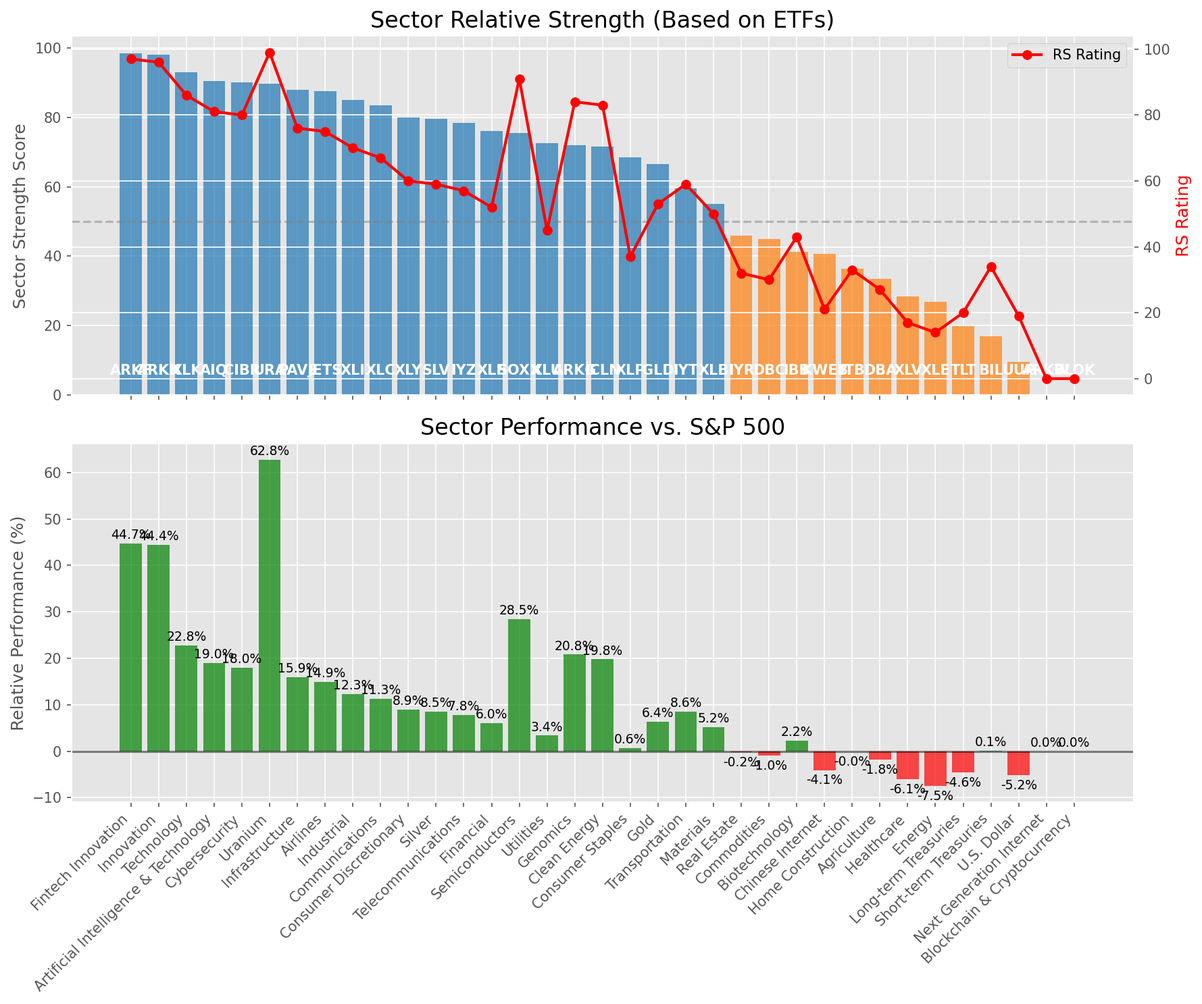
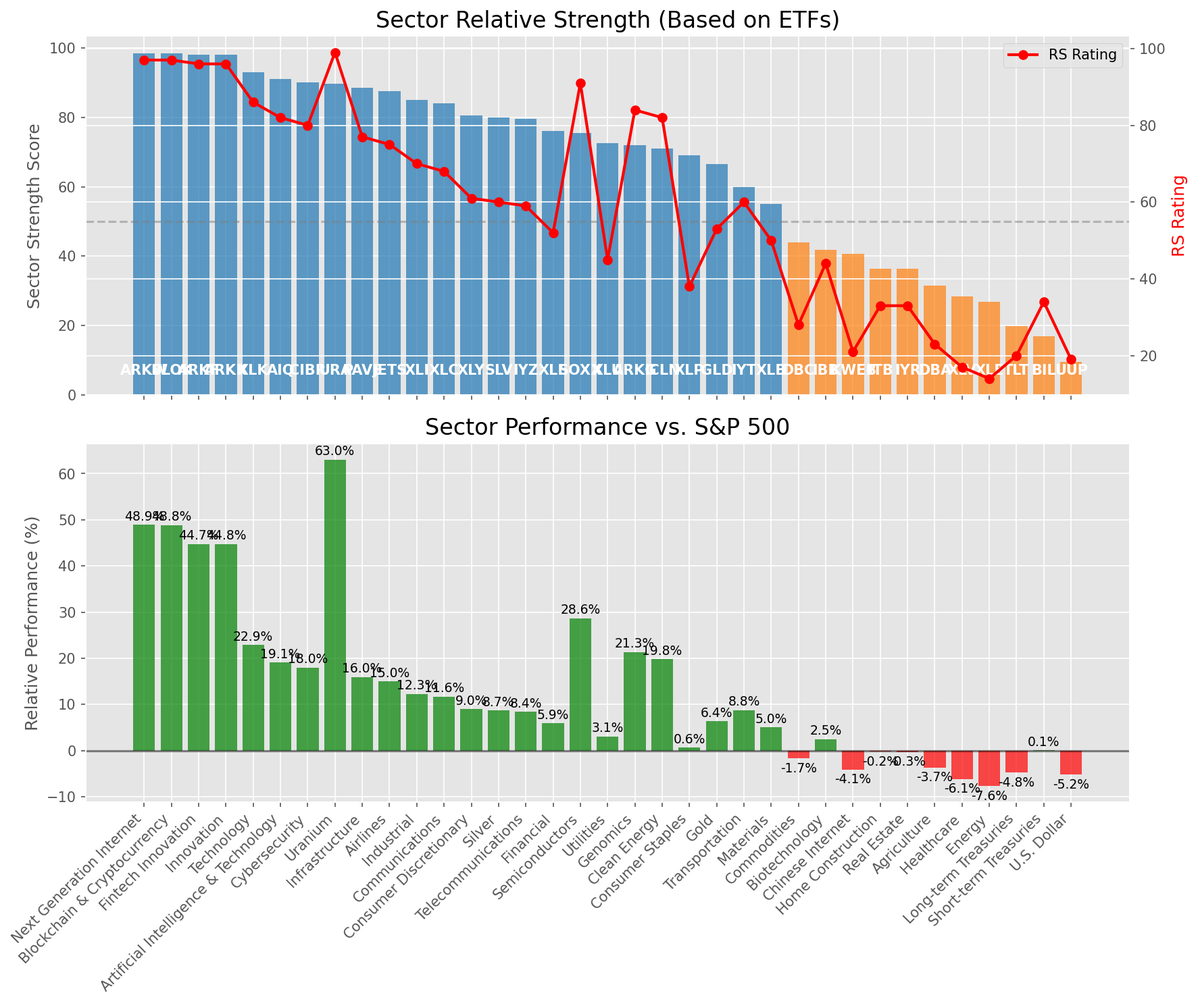
Add market report for 2025-07-03

diff --git a/oneil_relative_strength_report_2025-07-03.md b/oneil_relative_strength_report_2025-07-03.md
@@ -13,7 +13,7 @@
 | **Historical Mean** | 9.38 |
 | **Standard Deviation** | 0.48 |
 | **Z-Score (StdDev from Mean)** | 1.70 |
-| **Total Market Cap** | $308.03 trillion |
+| **Total Market Cap** | $308.14 trillion |
 | **GDP** | $29.96 trillion |
 
 ## **Market Insights**
@@ -49,41 +49,41 @@ Based on William O'Neil's Relative Strength Methodology
 
 | ETF | Strength | RS Rating | Performance | Above Key MAs | Trend | Sector |
 |-----|----------|-----------|-------------|--------------|-------|--------|
-| [ARKF](https://www.tradingview.com/chart/?symbol=ARKF) | 98.5 | 97.0 | 44.73% | 10d ✓, 50d ✓, 200d ✓ | ↗ | Fintech Innovation |
-| [ARKK](https://www.tradingview.com/chart/?symbol=ARKK) | 98.0 | 96.0 | 44.45% | 10d ✓, 50d ✓, 200d ✓ | ↗ | Innovation |
-| [XLK](https://www.tradingview.com/chart/?symbol=XLK) | 93.0 | 86.0 | 22.77% | 10d ✓, 50d ✓, 200d ✓ | ↗ | Technology |
-| [AIQ](https://www.tradingview.com/chart/?symbol=AIQ) | 90.5 | 81.0 | 18.95% | 10d ✓, 50d ✓, 200d ✓ | ↗ | Artificial Intelligence & Technology |
-| [CIBR](https://www.tradingview.com/chart/?symbol=CIBR) | 90.0 | 80.0 | 17.95% | 10d ✓, 50d ✓, 200d ✓ | ↗ | Cybersecurity |
-| [URA](https://www.tradingview.com/chart/?symbol=URA) | 89.6 | 99.0 | 62.75% | 10d ✗, 50d ✓, 200d ✓ | ↗ | Uranium |
-| [PAVE](https://www.tradingview.com/chart/?symbol=PAVE) | 88.0 | 76.0 | 15.95% | 10d ✓, 50d ✓, 200d ✓ | ↗ | Infrastructure |
-| [JETS](https://www.tradingview.com/chart/?symbol=JETS) | 87.5 | 75.0 | 14.95% | 10d ✓, 50d ✓, 200d ✓ | ↗ | Airlines |
-| [XLI](https://www.tradingview.com/chart/?symbol=XLI) | 85.0 | 70.0 | 12.29% | 10d ✓, 50d ✓, 200d ✓ | ↗ | Industrial |
-| [XLC](https://www.tradingview.com/chart/?symbol=XLC) | 83.5 | 67.0 | 11.30% | 10d ✓, 50d ✓, 200d ✓ | ↗ | Communications |
-| [XLY](https://www.tradingview.com/chart/?symbol=XLY) | 80.0 | 60.0 | 8.92% | 10d ✓, 50d ✓, 200d ✓ | ↗ | Consumer Discretionary |
-| [SLV](https://www.tradingview.com/chart/?symbol=SLV) | 79.5 | 59.0 | 8.47% | 10d ✓, 50d ✓, 200d ✓ | ↗ | Silver |
-| [IYZ](https://www.tradingview.com/chart/?symbol=IYZ) | 78.5 | 57.0 | 7.84% | 10d ✓, 50d ✓, 200d ✓ | ↗ | Telecommunications |
-| [XLF](https://www.tradingview.com/chart/?symbol=XLF) | 76.0 | 52.0 | 6.02% | 10d ✓, 50d ✓, 200d ✓ | ↗ | Financial |
-| [SOXX](https://www.tradingview.com/chart/?symbol=SOXX) | 75.5 | 91.0 | 28.46% | 10d ✓, 50d ✓, 200d ✓ | ↘ | Semiconductors |
-| [XLU](https://www.tradingview.com/chart/?symbol=XLU) | 72.5 | 45.0 | 3.36% | 10d ✓, 50d ✓, 200d ✓ | ↗ | Utilities |
-| [ARKG](https://www.tradingview.com/chart/?symbol=ARKG) | 72.0 | 84.0 | 20.80% | 10d ✓, 50d ✓, 200d ✓ | ↘ | Genomics |
-| [ICLN](https://www.tradingview.com/chart/?symbol=ICLN) | 71.5 | 83.0 | 19.78% | 10d ✓, 50d ✓, 200d ✓ | ↘ | Clean Energy |
-| [XLP](https://www.tradingview.com/chart/?symbol=XLP) | 68.5 | 37.0 | 0.64% | 10d ✓, 50d ✓, 200d ✓ | ↗ | Consumer Staples |
-| [GLD](https://www.tradingview.com/chart/?symbol=GLD) | 66.6 | 53.0 | 6.39% | 10d ✗, 50d ✓, 200d ✓ | ↗ | Gold |
-| [IYT](https://www.tradingview.com/chart/?symbol=IYT) | 59.5 | 59.0 | 8.56% | 10d ✓, 50d ✓, 200d ✓ | ↘ | Transportation |
-| [XLB](https://www.tradingview.com/chart/?symbol=XLB) | 55.0 | 50.0 | 5.20% | 10d ✓, 50d ✓, 200d ✓ | ↘ | Materials |
-| [IYR](https://www.tradingview.com/chart/?symbol=IYR) | 46.0 | 32.0 | -0.25% | 10d ✓, 50d ✓, 200d ✓ | ↘ | Real Estate |
-| [DBC](https://www.tradingview.com/chart/?symbol=DBC) | 45.0 | 30.0 | -0.98% | 10d ✓, 50d ✓, 200d ✓ | ↘ | Commodities |
-| [IBB](https://www.tradingview.com/chart/?symbol=IBB) | 41.3 | 43.0 | 2.25% | 10d ✓, 50d ✓, 200d ✗ | ↘ | Biotechnology |
+| [ARKW](https://www.tradingview.com/chart/?symbol=ARKW) | 98.5 | 97.0 | 48.88% | 10d ✓, 50d ✓, 200d ✓ | ↗ | Next Generation Internet |
+| [BLOK](https://www.tradingview.com/chart/?symbol=BLOK) | 98.5 | 97.0 | 48.84% | 10d ✓, 50d ✓, 200d ✓ | ↗ | Blockchain & Cryptocurrency |
+| [ARKF](https://www.tradingview.com/chart/?symbol=ARKF) | 98.0 | 96.0 | 44.72% | 10d ✓, 50d ✓, 200d ✓ | ↗ | Fintech Innovation |
+| [ARKK](https://www.tradingview.com/chart/?symbol=ARKK) | 98.0 | 96.0 | 44.77% | 10d ✓, 50d ✓, 200d ✓ | ↗ | Innovation |
+| [XLK](https://www.tradingview.com/chart/?symbol=XLK) | 93.0 | 86.0 | 22.85% | 10d ✓, 50d ✓, 200d ✓ | ↗ | Technology |
+| [AIQ](https://www.tradingview.com/chart/?symbol=AIQ) | 91.0 | 82.0 | 19.07% | 10d ✓, 50d ✓, 200d ✓ | ↗ | Artificial Intelligence & Technology |
+| [CIBR](https://www.tradingview.com/chart/?symbol=CIBR) | 90.0 | 80.0 | 17.96% | 10d ✓, 50d ✓, 200d ✓ | ↗ | Cybersecurity |
+| [URA](https://www.tradingview.com/chart/?symbol=URA) | 89.6 | 99.0 | 63.01% | 10d ✗, 50d ✓, 200d ✓ | ↗ | Uranium |
+| [PAVE](https://www.tradingview.com/chart/?symbol=PAVE) | 88.5 | 77.0 | 15.96% | 10d ✓, 50d ✓, 200d ✓ | ↗ | Infrastructure |
+| [JETS](https://www.tradingview.com/chart/?symbol=JETS) | 87.5 | 75.0 | 14.97% | 10d ✓, 50d ✓, 200d ✓ | ↗ | Airlines |
+| [XLI](https://www.tradingview.com/chart/?symbol=XLI) | 85.0 | 70.0 | 12.25% | 10d ✓, 50d ✓, 200d ✓ | ↗ | Industrial |
+| [XLC](https://www.tradingview.com/chart/?symbol=XLC) | 84.0 | 68.0 | 11.64% | 10d ✓, 50d ✓, 200d ✓ | ↗ | Communications |
+| [XLY](https://www.tradingview.com/chart/?symbol=XLY) | 80.5 | 61.0 | 8.97% | 10d ✓, 50d ✓, 200d ✓ | ↗ | Consumer Discretionary |
+| [SLV](https://www.tradingview.com/chart/?symbol=SLV) | 80.0 | 60.0 | 8.66% | 10d ✓, 50d ✓, 200d ✓ | ↗ | Silver |
+| [IYZ](https://www.tradingview.com/chart/?symbol=IYZ) | 79.5 | 59.0 | 8.37% | 10d ✓, 50d ✓, 200d ✓ | ↗ | Telecommunications |
+| [XLF](https://www.tradingview.com/chart/?symbol=XLF) | 76.0 | 52.0 | 5.90% | 10d ✓, 50d ✓, 200d ✓ | ↗ | Financial |
+| [SOXX](https://www.tradingview.com/chart/?symbol=SOXX) | 75.5 | 91.0 | 28.59% | 10d ✓, 50d ✓, 200d ✓ | ↘ | Semiconductors |
+| [XLU](https://www.tradingview.com/chart/?symbol=XLU) | 72.5 | 45.0 | 3.08% | 10d ✓, 50d ✓, 200d ✓ | ↗ | Utilities |
+| [ARKG](https://www.tradingview.com/chart/?symbol=ARKG) | 72.0 | 84.0 | 21.30% | 10d ✓, 50d ✓, 200d ✓ | ↘ | Genomics |
+| [ICLN](https://www.tradingview.com/chart/?symbol=ICLN) | 71.0 | 82.0 | 19.78% | 10d ✓, 50d ✓, 200d ✓ | ↘ | Clean Energy |
+| [XLP](https://www.tradingview.com/chart/?symbol=XLP) | 69.0 | 38.0 | 0.62% | 10d ✓, 50d ✓, 200d ✓ | ↗ | Consumer Staples |
+| [GLD](https://www.tradingview.com/chart/?symbol=GLD) | 66.6 | 53.0 | 6.35% | 10d ✗, 50d ✓, 200d ✓ | ↗ | Gold |
+| [IYT](https://www.tradingview.com/chart/?symbol=IYT) | 60.0 | 60.0 | 8.77% | 10d ✓, 50d ✓, 200d ✓ | ↘ | Transportation |
+| [XLB](https://www.tradingview.com/chart/?symbol=XLB) | 55.0 | 50.0 | 5.02% | 10d ✓, 50d ✓, 200d ✓ | ↘ | Materials |
+| [DBC](https://www.tradingview.com/chart/?symbol=DBC) | 44.0 | 28.0 | -1.71% | 10d ✓, 50d ✓, 200d ✓ | ↘ | Commodities |
+| [IBB](https://www.tradingview.com/chart/?symbol=IBB) | 41.8 | 44.0 | 2.47% | 10d ✓, 50d ✓, 200d ✗ | ↘ | Biotechnology |
 | [KWEB](https://www.tradingview.com/chart/?symbol=KWEB) | 40.7 | 21.0 | -4.09% | 10d ✗, 50d ✗, 200d ✓ | ↗ | Chinese Internet |
-| [ITB](https://www.tradingview.com/chart/?symbol=ITB) | 36.3 | 33.0 | -0.04% | 10d ✓, 50d ✓, 200d ✗ | ↘ | Home Construction |
-| [DBA](https://www.tradingview.com/chart/?symbol=DBA) | 33.5 | 27.0 | -1.78% | 10d ✗, 50d ✗, 200d ✗ | ↗ | Agriculture |
-| [XLV](https://www.tradingview.com/chart/?symbol=XLV) | 28.3 | 17.0 | -6.06% | 10d ✓, 50d ✓, 200d ✗ | ↘ | Healthcare |
-| [XLE](https://www.tradingview.com/chart/?symbol=XLE) | 26.8 | 14.0 | -7.48% | 10d ✓, 50d ✓, 200d ✗ | ↘ | Energy |
-| [TLT](https://www.tradingview.com/chart/?symbol=TLT) | 19.9 | 20.0 | -4.58% | 10d ✗, 50d ✓, 200d ✗ | ↘ | Long-term Treasuries |
-| [BIL](https://www.tradingview.com/chart/?symbol=BIL) | 17.0 | 34.0 | 0.06% | 10d ✗, 50d ✗, 200d ✗ | ↘ | Short-term Treasuries |
-| [UUP](https://www.tradingview.com/chart/?symbol=UUP) | 9.5 | 19.0 | -5.22% | 10d ✗, 50d ✗, 200d ✗ | ↘ | U.S. Dollar |
-| [ARKW](https://www.tradingview.com/chart/?symbol=ARKW) | 0.0 | 0.0 | 0.00% | 10d ✗, 50d ✗, 200d ✗ | ↘ | Next Generation Internet |
-| [BLOK](https://www.tradingview.com/chart/?symbol=BLOK) | 0.0 | 0.0 | 0.00% | 10d ✗, 50d ✗, 200d ✗ | ↘ | Blockchain & Cryptocurrency |
+| [ITB](https://www.tradingview.com/chart/?symbol=ITB) | 36.3 | 33.0 | -0.22% | 10d ✓, 50d ✓, 200d ✗ | ↘ | Home Construction |
+| [IYR](https://www.tradingview.com/chart/?symbol=IYR) | 36.3 | 33.0 | -0.28% | 10d ✓, 50d ✓, 200d ✗ | ↘ | Real Estate |
+| [DBA](https://www.tradingview.com/chart/?symbol=DBA) | 31.5 | 23.0 | -3.68% | 10d ✗, 50d ✗, 200d ✗ | ↗ | Agriculture |
+| [XLV](https://www.tradingview.com/chart/?symbol=XLV) | 28.3 | 17.0 | -6.11% | 10d ✓, 50d ✓, 200d ✗ | ↘ | Healthcare |
+| [XLE](https://www.tradingview.com/chart/?symbol=XLE) | 26.8 | 14.0 | -7.65% | 10d ✓, 50d ✓, 200d ✗ | ↘ | Energy |
+| [TLT](https://www.tradingview.com/chart/?symbol=TLT) | 19.9 | 20.0 | -4.78% | 10d ✗, 50d ✓, 200d ✗ | ↘ | Long-term Treasuries |
+| [BIL](https://www.tradingview.com/chart/?symbol=BIL) | 17.0 | 34.0 | 0.05% | 10d ✗, 50d ✗, 200d ✗ | ↘ | Short-term Treasuries |
+| [UUP](https://www.tradingview.com/chart/?symbol=UUP) | 9.5 | 19.0 | -5.20% | 10d ✗, 50d ✗, 200d ✗ | ↘ | U.S. Dollar |
 
 ### **Sector ETF Performance Interpretation**
 
@@ -98,136 +98,145 @@ This table shows the relative strength metrics for different market sectors base
 
 ### **Current Sector Leadership**
 
-The current market leadership is coming from the following sectors: **Fintech Innovation, Innovation, Technology**.
+The current market leadership is coming from the following sectors: **Next Generation Internet, Blockchain & Cryptocurrency, Fintech Innovation**.
 
-The **Fintech Innovation** sector (represented by **ARKF**) is showing particularly strong relative strength with an RS rating of 97.0 and performance of 44.73% vs. the S&P 500. This sector is trading above its 10-day, 50-day, 200-day moving average(s). Investors should consider focusing on high RS stocks within these leading sectors for potential outperformance.
+The **Next Generation Internet** sector (represented by **ARKW**) is showing particularly strong relative strength with an RS rating of 97.0 and performance of 48.88% vs. the S&P 500. This sector is trading above its 10-day, 50-day, 200-day moving average(s). Investors should consider focusing on high RS stocks within these leading sectors for potential outperformance.
 
 ---
 
 ## **Buy Recommendations**
 
-The following 67 stocks show exceptional relative strength:
+The following 73 stocks show exceptional relative strength:
 
 | RS Rating | Buy Score | Current Price | Chart | Name | Ticker |
 |-----------|-----------|---------------|-------|------|--------|
-| 100 | 100 | $159.32 | [Chart](https://www.tradingview.com/chart/?symbol=CLS) | Celestica, Inc. | CLS |
-| 100 | 100 | $36.02 | [Chart](https://www.tradingview.com/chart/?symbol=GRPN) | Groupon, Inc.Common Stock | GRPN |
-| 100 | 100 | $93.48 | [Chart](https://www.tradingview.com/chart/?symbol=HOOD) | Robinhood Markets, Inc. Class A Common Stock | HOOD |
-| 100 | 100 | $178.17 | [Chart](https://www.tradingview.com/chart/?symbol=SEZL) | Sezzle Inc. Common Stock | SEZL |
-| 100 | 100 | $278.56 | [Chart](https://www.tradingview.com/chart/?symbol=DAVE) | Dave Inc. Class A Common Stock | DAVE |
-| 99 | 100 | $43.91 | [Chart](https://www.tradingview.com/chart/?symbol=FARO) | Faro Technologies Inc | FARO |
-| 99 | 100 | $104.03 | [Chart](https://www.tradingview.com/chart/?symbol=RBLX) | Roblox Corporation | RBLX |
-| 99 | 100 | $226.29 | [Chart](https://www.tradingview.com/chart/?symbol=JBL) | Jabil Inc. | JBL |
-| 99 | 100 | $191.35 | [Chart](https://www.tradingview.com/chart/?symbol=NET) | Cloudflare, Inc. Class A common stock, par value $0.001 per share | NET |
-| 98 | 100 | $75.11 | [Chart](https://www.tradingview.com/chart/?symbol=ODD) | ODDITY Tech Ltd. Class A Ordinary Shares | ODD |
-| 98 | 100 | $157.87 | [Chart](https://www.tradingview.com/chart/?symbol=NRG) | NRG Energy, Inc. | NRG |
-| 98 | 100 | $315.62 | [Chart](https://www.tradingview.com/chart/?symbol=ZS) | Zscaler, Inc. Common Stock | ZS |
-| 98 | 100 | $348.93 | [Chart](https://www.tradingview.com/chart/?symbol=CVNA) | Carvana Co. | CVNA |
-| 98 | 100 | $517.76 | [Chart](https://www.tradingview.com/chart/?symbol=GEV) | GE Vernova Inc. | GEV |
-| 98 | 100 | $330.77 | [Chart](https://www.tradingview.com/chart/?symbol=RCL) | Royal Caribbean Group | RCL |
-| 97 | 100 | $279.74 | [Chart](https://www.tradingview.com/chart/?symbol=CRS) | Carpenter Technology Corp | CRS |
-| 97 | 100 | $50.16 | [Chart](https://www.tradingview.com/chart/?symbol=ARKF) | ARK Fintech Innovation ETF | ARKF |
-| 96 | 100 | $44.45 | [Chart](https://www.tradingview.com/chart/?symbol=KTOS) | Kratos Defense & Security Solutions, Inc. | KTOS |
-| 96 | 100 | $796.08 | [Chart](https://www.tradingview.com/chart/?symbol=AXON) | Axon Enterprise, Inc. Common Stock | AXON |
-| 96 | 100 | $88.46 | [Chart](https://www.tradingview.com/chart/?symbol=RBRK) | Rubrik, Inc. | RBRK |
-| 95 | 100 | $21.38 | [Chart](https://www.tradingview.com/chart/?symbol=MAG) | MAG Silver Corp. | MAG |
-| 95 | 100 | $1295.38 | [Chart](https://www.tradingview.com/chart/?symbol=NFLX) | NetFlix Inc | NFLX |
-| 95 | 100 | $513.76 | [Chart](https://www.tradingview.com/chart/?symbol=CRWD) | CrowdStrike Holdings, Inc. Class A Common Stock | CRWD |
-| 94 | 100 | $46.26 | [Chart](https://www.tradingview.com/chart/?symbol=DRS) | Leonardo DRS, Inc. Common Stock | DRS |
-| 94 | 100 | $179.86 | [Chart](https://www.tradingview.com/chart/?symbol=HWM) | Howmet Aerospace Inc. | HWM |
-| 94 | 100 | $38.76 | [Chart](https://www.tradingview.com/chart/?symbol=AS) | Amer Sports, Inc. | AS |
-| 93 | 100 | $101.24 | [Chart](https://www.tradingview.com/chart/?symbol=SANM) | Sanmina  Corp | SANM |
+| 100 | 100 | $94.12 | [Chart](https://www.tradingview.com/chart/?symbol=HOOD) | Robinhood Markets, Inc. Class A Common Stock | HOOD |
+| 100 | 100 | $179.83 | [Chart](https://www.tradingview.com/chart/?symbol=SEZL) | Sezzle Inc. Common Stock | SEZL |
+| 100 | 100 | $158.51 | [Chart](https://www.tradingview.com/chart/?symbol=CLS) | Celestica, Inc. | CLS |
+| 100 | 100 | $145.77 | [Chart](https://www.tradingview.com/chart/?symbol=LMB) | Limbach Holdings, Inc Common Stock | LMB |
+| 100 | 100 | $282.36 | [Chart](https://www.tradingview.com/chart/?symbol=DAVE) | Dave Inc. Class A Common Stock | DAVE |
+| 99 | 100 | $43.94 | [Chart](https://www.tradingview.com/chart/?symbol=FARO) | Faro Technologies Inc | FARO |
+| 99 | 100 | $226.64 | [Chart](https://www.tradingview.com/chart/?symbol=JBL) | Jabil Inc. | JBL |
+| 99 | 100 | $104.22 | [Chart](https://www.tradingview.com/chart/?symbol=RBLX) | Roblox Corporation | RBLX |
+| 99 | 100 | $191.00 | [Chart](https://www.tradingview.com/chart/?symbol=NET) | Cloudflare, Inc. Class A common stock, par value $0.001 per share | NET |
+| 98 | 100 | $75.73 | [Chart](https://www.tradingview.com/chart/?symbol=ODD) | ODDITY Tech Ltd. Class A Ordinary Shares | ODD |
+| 98 | 100 | $315.87 | [Chart](https://www.tradingview.com/chart/?symbol=ZS) | Zscaler, Inc. Common Stock | ZS |
+| 98 | 100 | $211.28 | [Chart](https://www.tradingview.com/chart/?symbol=AGX) | Argan, Inc | AGX |
+| 98 | 100 | $333.11 | [Chart](https://www.tradingview.com/chart/?symbol=RCL) | Royal Caribbean Group | RCL |
+| 98 | 100 | $516.88 | [Chart](https://www.tradingview.com/chart/?symbol=GEV) | GE Vernova Inc. | GEV |
+| 98 | 100 | $157.56 | [Chart](https://www.tradingview.com/chart/?symbol=NRG) | NRG Energy, Inc. | NRG |
+| 98 | 100 | $347.77 | [Chart](https://www.tradingview.com/chart/?symbol=CVNA) | Carvana Co. | CVNA |
+| 97 | 100 | $280.60 | [Chart](https://www.tradingview.com/chart/?symbol=CRS) | Carpenter Technology Corp | CRS |
+| 96 | 100 | $44.69 | [Chart](https://www.tradingview.com/chart/?symbol=KTOS) | Kratos Defense & Security Solutions, Inc. | KTOS |
+| 96 | 100 | $50.16 | [Chart](https://www.tradingview.com/chart/?symbol=ARKF) | ARK Fintech Innovation ETF | ARKF |
+| 96 | 100 | $89.12 | [Chart](https://www.tradingview.com/chart/?symbol=RBRK) | Rubrik, Inc. | RBRK |
+| 96 | 100 | $795.58 | [Chart](https://www.tradingview.com/chart/?symbol=AXON) | Axon Enterprise, Inc. Common Stock | AXON |
+| 95 | 100 | $34.34 | [Chart](https://www.tradingview.com/chart/?symbol=APG) | APi Group Corporation | APG |
+| 95 | 100 | $21.50 | [Chart](https://www.tradingview.com/chart/?symbol=MAG) | MAG Silver Corp. | MAG |
+| 95 | 100 | $514.08 | [Chart](https://www.tradingview.com/chart/?symbol=CRWD) | CrowdStrike Holdings, Inc. Class A Common Stock | CRWD |
+| 95 | 100 | $1301.00 | [Chart](https://www.tradingview.com/chart/?symbol=NFLX) | NetFlix Inc | NFLX |
+| 94 | 100 | $180.27 | [Chart](https://www.tradingview.com/chart/?symbol=HWM) | Howmet Aerospace Inc. | HWM |
+| 94 | 100 | $46.41 | [Chart](https://www.tradingview.com/chart/?symbol=DRS) | Leonardo DRS, Inc. Common Stock | DRS |
+| 94 | 100 | $38.74 | [Chart](https://www.tradingview.com/chart/?symbol=AS) | Amer Sports, Inc. | AS |
+| 93 | 100 | $50.71 | [Chart](https://www.tradingview.com/chart/?symbol=INOD) | Innodata Inc. | INOD |
 | 93 | 100 | $52.89 | [Chart](https://www.tradingview.com/chart/?symbol=BBW) | Build-A-Bear Workshop, Inc. | BBW |
-| 93 | 100 | $73.36 | [Chart](https://www.tradingview.com/chart/?symbol=URBN) | Urban Outfitters Inc | URBN |
-| 93 | 100 | $251.75 | [Chart](https://www.tradingview.com/chart/?symbol=WWD) | Woodward, Inc. | WWD |
-| 93 | 100 | $57.59 | [Chart](https://www.tradingview.com/chart/?symbol=IBKR) | Interactive Brokers Group, Inc. Class A Common Stock | IBKR |
-| 92 | 100 | $43.44 | [Chart](https://www.tradingview.com/chart/?symbol=KD) | Kyndryl Holdings, Inc. | KD |
-| 92 | 100 | $49.45 | [Chart](https://www.tradingview.com/chart/?symbol=INOD) | Innodata Inc. | INOD |
-| 90 | 100 | $240.10 | [Chart](https://www.tradingview.com/chart/?symbol=DASH) | DoorDash, Inc. Class A Common Stock | DASH |
-| 90 | 100 | $28.11 | [Chart](https://www.tradingview.com/chart/?symbol=SRAD) | Sportradar Group AG Class A Ordinary Shares | SRAD |
-| 90 | 100 | $25.72 | [Chart](https://www.tradingview.com/chart/?symbol=KAR) | OPENLANE, Inc | KAR |
-| 90 | 100 | $65.53 | [Chart](https://www.tradingview.com/chart/?symbol=CAKE) | Cheesecake Factory (The) | CAKE |
-| 89 | 100 | $62.25 | [Chart](https://www.tradingview.com/chart/?symbol=IBIT) | iShares Bitcoin Trust ETF | IBIT |
-| 89 | 100 | $30.99 | [Chart](https://www.tradingview.com/chart/?symbol=HODL) | VanEck Bitcoin ETF | HODL |
-| 89 | 100 | $284.15 | [Chart](https://www.tradingview.com/chart/?symbol=VEEV) | Veeva Systems Inc. | VEEV |
-| 89 | 100 | $43.82 | [Chart](https://www.tradingview.com/chart/?symbol=BBIO) | BridgeBio Pharma, Inc. Common Stock | BBIO |
-| 88 | 100 | $59.19 | [Chart](https://www.tradingview.com/chart/?symbol=SHLD) | Global X Defense Tech ETF | SHLD |
-| 90 | 99 | $66.28 | [Chart](https://www.tradingview.com/chart/?symbol=RYTM) | Rhythm Pharmaceuticals, Inc. Common Stock | RYTM |
-| 89 | 99 | $86.21 | [Chart](https://www.tradingview.com/chart/?symbol=SLNO) | Soleno Therapeutics, Inc. Common Stock | SLNO |
-| 85 | 99 | $21.16 | [Chart](https://www.tradingview.com/chart/?symbol=KT) | KT Corp. | KT |
-| 85 | 98 | $44.95 | [Chart](https://www.tradingview.com/chart/?symbol=EXEL) | Exelixis Inc | EXEL |
+| 93 | 100 | $101.24 | [Chart](https://www.tradingview.com/chart/?symbol=SANM) | Sanmina  Corp | SANM |
+| 93 | 100 | $252.35 | [Chart](https://www.tradingview.com/chart/?symbol=WWD) | Woodward, Inc. | WWD |
+| 93 | 100 | $57.86 | [Chart](https://www.tradingview.com/chart/?symbol=IBKR) | Interactive Brokers Group, Inc. Class A Common Stock | IBKR |
+| 92 | 100 | $73.42 | [Chart](https://www.tradingview.com/chart/?symbol=URBN) | Urban Outfitters Inc | URBN |
+| 92 | 100 | $17.84 | [Chart](https://www.tradingview.com/chart/?symbol=DAN) | Dana Incorporated | DAN |
+| 92 | 100 | $43.50 | [Chart](https://www.tradingview.com/chart/?symbol=KD) | Kyndryl Holdings, Inc. | KD |
+| 91 | 100 | $403.33 | [Chart](https://www.tradingview.com/chart/?symbol=MSTR) | MicroStrategy Inc | MSTR |
+| 90 | 100 | $240.50 | [Chart](https://www.tradingview.com/chart/?symbol=DASH) | DoorDash, Inc. Class A Common Stock | DASH |
+| 90 | 100 | $65.72 | [Chart](https://www.tradingview.com/chart/?symbol=CAKE) | Cheesecake Factory (The) | CAKE |
+| 90 | 100 | $25.68 | [Chart](https://www.tradingview.com/chart/?symbol=KAR) | OPENLANE, Inc | KAR |
+| 89 | 100 | $30.93 | [Chart](https://www.tradingview.com/chart/?symbol=HODL) | VanEck Bitcoin ETF | HODL |
+| 89 | 100 | $28.04 | [Chart](https://www.tradingview.com/chart/?symbol=SRAD) | Sportradar Group AG Class A Ordinary Shares | SRAD |
+| 89 | 100 | $43.81 | [Chart](https://www.tradingview.com/chart/?symbol=BBIO) | BridgeBio Pharma, Inc. Common Stock | BBIO |
+| 88 | 100 | $46.40 | [Chart](https://www.tradingview.com/chart/?symbol=EXEL) | Exelixis Inc | EXEL |
+| 88 | 100 | $59.16 | [Chart](https://www.tradingview.com/chart/?symbol=SHLD) | Global X Defense Tech ETF | SHLD |
+| 90 | 99 | $66.00 | [Chart](https://www.tradingview.com/chart/?symbol=RYTM) | Rhythm Pharmaceuticals, Inc. Common Stock | RYTM |
+| 89 | 99 | $62.13 | [Chart](https://www.tradingview.com/chart/?symbol=IBIT) | iShares Bitcoin Trust ETF | IBIT |
+| 88 | 99 | $284.18 | [Chart](https://www.tradingview.com/chart/?symbol=VEEV) | Veeva Systems Inc. | VEEV |
+| 86 | 99 | $21.22 | [Chart](https://www.tradingview.com/chart/?symbol=KT) | KT Corp. | KT |
 | 84 | 98 | $92.71 | [Chart](https://www.tradingview.com/chart/?symbol=SNEX) | StoneX Group Inc. Common Stock | SNEX |
-| 87 | 97 | $46.49 | [Chart](https://www.tradingview.com/chart/?symbol=AU) | AngloGold Ashanti plc | AU |
-| 87 | 96 | $48.82 | [Chart](https://www.tradingview.com/chart/?symbol=SIL) | Global X Silver Miners ETF (NEW) | SIL |
-| 86 | 96 | $252.69 | [Chart](https://www.tradingview.com/chart/?symbol=WTS) | Watts Water Technologies, Inc. Class A | WTS |
-| 85 | 96 | $226.13 | [Chart](https://www.tradingview.com/chart/?symbol=BAP) | Credicorp LTD | BAP |
-| 83 | 96 | $48.24 | [Chart](https://www.tradingview.com/chart/?symbol=BTI) | British American Tobacco p.l.c. American Depositary Shares, American Depositary Shares, each representing one Ordinary Share | BTI |
+| 87 | 96 | $48.74 | [Chart](https://www.tradingview.com/chart/?symbol=SIL) | Global X Silver Miners ETF (NEW) | SIL |
+| 87 | 96 | $46.45 | [Chart](https://www.tradingview.com/chart/?symbol=AU) | AngloGold Ashanti plc | AU |
+| 85 | 96 | $5701.76 | [Chart](https://www.tradingview.com/chart/?symbol=BKNG) | Booking Holdings Inc. Common Stock | BKNG |
+| 84 | 96 | $90.53 | [Chart](https://www.tradingview.com/chart/?symbol=TPR) | Tapestry, Inc. Common Stock | TPR |
+| 83 | 96 | $29.67 | [Chart](https://www.tradingview.com/chart/?symbol=CAE) | CAE INC | CAE |
 | 83 | 96 | $29.20 | [Chart](https://www.tradingview.com/chart/?symbol=DB) | Deutsche Bank Aktiengesellschaft | DB |
-| 83 | 96 | $36.87 | [Chart](https://www.tradingview.com/chart/?symbol=AHR) | American Healthcare REIT, Inc. | AHR |
-| 85 | 95 | $5701.76 | [Chart](https://www.tradingview.com/chart/?symbol=BKNG) | Booking Holdings Inc. Common Stock | BKNG |
-| 84 | 95 | $187.10 | [Chart](https://www.tradingview.com/chart/?symbol=ITA) | iShares U.S. Aerospace & Defense ETF | ITA |
-| 84 | 95 | $90.39 | [Chart](https://www.tradingview.com/chart/?symbol=TPR) | Tapestry, Inc. Common Stock | TPR |
-| 84 | 94 | $106.55 | [Chart](https://www.tradingview.com/chart/?symbol=PSMT) | Pricesmart Inc | PSMT |
-| 84 | 94 | $220.90 | [Chart](https://www.tradingview.com/chart/?symbol=COF) | Capital One Financial | COF |
-| 83 | 94 | $77.08 | [Chart](https://www.tradingview.com/chart/?symbol=CTVA) | Corteva, Inc. Common Stock | CTVA |
-| 83 | 94 | $295.57 | [Chart](https://www.tradingview.com/chart/?symbol=JPM) | JPMorgan Chase & Co. | JPM |
-| 82 | 94 | $29.28 | [Chart](https://www.tradingview.com/chart/?symbol=CAE) | CAE INC | CAE |
-| 83 | 93 | $60.06 | [Chart](https://www.tradingview.com/chart/?symbol=NTR) | Nutrien Ltd. Common Shares | NTR |
-| 82 | 92 | $112.52 | [Chart](https://www.tradingview.com/chart/?symbol=SPMO) | Invesco S&P 500 Momentum ETF | SPMO |
-| 80 | 92 | $183.33 | [Chart](https://www.tradingview.com/chart/?symbol=EAT) | Brinker International, Inc. | EAT |
+| 83 | 96 | $37.11 | [Chart](https://www.tradingview.com/chart/?symbol=AHR) | American Healthcare REIT, Inc. | AHR |
+| 85 | 95 | $252.69 | [Chart](https://www.tradingview.com/chart/?symbol=WTS) | Watts Water Technologies, Inc. Class A | WTS |
+| 84 | 95 | $220.96 | [Chart](https://www.tradingview.com/chart/?symbol=COF) | Capital One Financial | COF |
+| 84 | 95 | $187.06 | [Chart](https://www.tradingview.com/chart/?symbol=ITA) | iShares U.S. Aerospace & Defense ETF | ITA |
+| 83 | 95 | $48.39 | [Chart](https://www.tradingview.com/chart/?symbol=BTI) | British American Tobacco p.l.c. American Depositary Shares, American Depositary Shares, each representing one Ordinary Share | BTI |
+| 83 | 94 | $295.47 | [Chart](https://www.tradingview.com/chart/?symbol=JPM) | JPMorgan Chase & Co. | JPM |
+| 83 | 94 | $77.07 | [Chart](https://www.tradingview.com/chart/?symbol=CTVA) | Corteva, Inc. Common Stock | CTVA |
+| 83 | 93 | $120.57 | [Chart](https://www.tradingview.com/chart/?symbol=TWLO) | Twilio Inc. | TWLO |
+| 83 | 93 | $60.01 | [Chart](https://www.tradingview.com/chart/?symbol=NTR) | Nutrien Ltd. Common Shares | NTR |
+| 83 | 93 | $93.08 | [Chart](https://www.tradingview.com/chart/?symbol=SEIC) | SEI Investments Co | SEIC |
+| 80 | 93 | $183.03 | [Chart](https://www.tradingview.com/chart/?symbol=EAT) | Brinker International, Inc. | EAT |
+| 82 | 92 | $269.48 | [Chart](https://www.tradingview.com/chart/?symbol=FDN) | First Trust Dow Jones Internet Index Fund ETF | FDN |
+| 82 | 92 | $112.59 | [Chart](https://www.tradingview.com/chart/?symbol=SPMO) | Invesco S&P 500 Momentum ETF | SPMO |
 | 80 | 92 | $76.02 | [Chart](https://www.tradingview.com/chart/?symbol=CIBR) | First Trust Exchange-Traded Fund II First Trust NASDAQ Cybersecurity ETF | CIBR |
-| 80 | 90 | $121.90 | [Chart](https://www.tradingview.com/chart/?symbol=FUTU) | Futu Holdings Limited American Depositary Shares | FUTU |
+| 81 | 91 | $141.74 | [Chart](https://www.tradingview.com/chart/?symbol=PPA) | Invesco Aerospace & Defense ETF | PPA |
+| 80 | 91 | $227.91 | [Chart](https://www.tradingview.com/chart/?symbol=BAP) | Credicorp LTD | BAP |
+| 80 | 89 | $121.99 | [Chart](https://www.tradingview.com/chart/?symbol=FUTU) | Futu Holdings Limited American Depositary Shares | FUTU |
 
 ---
 
 
 ## **Sell Recommendations**
 
-The following 41 stocks show deteriorating relative strength:
+The following 44 stocks show deteriorating relative strength:
 
 | RS Rating | Sell Score | Current Price | Chart | Name | Ticker |
 |-----------|------------|---------------|-------|------|--------|
-| 1 | 100 | $25.49 | [Chart](https://www.tradingview.com/chart/?symbol=TECS) | Direxion Daily Technology Bear 3x Shares | TECS |
-| 1 | 100 | $24.92 | [Chart](https://www.tradingview.com/chart/?symbol=QID) | ProShares UltraShort QQQ | QID |
-| 1 | 100 | $14.20 | [Chart](https://www.tradingview.com/chart/?symbol=NVDS) | Investment Managers Series Trust II Tradr 1.5X Short NVDA Daily ETF | NVDS |
 | 1 | 100 | $10.09 | [Chart](https://www.tradingview.com/chart/?symbol=HIBS) | Direxion Daily S&P 500 High Beta Bear 3X Shares | HIBS |
-| 2 | 100 | $12.06 | [Chart](https://www.tradingview.com/chart/?symbol=LBRT) | Liberty Energy Inc. | LBRT |
-| 2 | 100 | $39.38 | [Chart](https://www.tradingview.com/chart/?symbol=SDOW) | ProShares UltraPro Short Dow 30 | SDOW |
-| 2 | 100 | $24.92 | [Chart](https://www.tradingview.com/chart/?symbol=CRTO) | Criteo S.A. | CRTO |
-| 2 | 100 | $43.65 | [Chart](https://www.tradingview.com/chart/?symbol=LINE) | Lineage, Inc. Common Stock | LINE |
-| 3 | 100 | $19.30 | [Chart](https://www.tradingview.com/chart/?symbol=BITI) | ProShares Short Bitcoin ETF | BITI |
-| 3 | 100 | $16.26 | [Chart](https://www.tradingview.com/chart/?symbol=SDS) | ProShares UltraShort S&P500 | SDS |
-| 4 | 100 | $80.04 | [Chart](https://www.tradingview.com/chart/?symbol=LNTH) | Lantheus Holdings, Inc | LNTH |
-| 5 | 100 | $33.41 | [Chart](https://www.tradingview.com/chart/?symbol=PSQ) | ProShares Short QQQ | PSQ |
-| 6 | 100 | $23.41 | [Chart](https://www.tradingview.com/chart/?symbol=DXD) | ProShares UltraShort Dow 30 | DXD |
-| 6 | 100 | $10.20 | [Chart](https://www.tradingview.com/chart/?symbol=LBTYK) | Liberty Global Ltd. Class C Common Shares | LBTYK |
+| 1 | 100 | $25.44 | [Chart](https://www.tradingview.com/chart/?symbol=TECS) | Direxion Daily Technology Bear 3x Shares | TECS |
+| 1 | 100 | $14.19 | [Chart](https://www.tradingview.com/chart/?symbol=NVDS) | Investment Managers Series Trust II Tradr 1.5X Short NVDA Daily ETF | NVDS |
+| 2 | 100 | $24.89 | [Chart](https://www.tradingview.com/chart/?symbol=QID) | ProShares UltraShort QQQ | QID |
+| 2 | 100 | $11.98 | [Chart](https://www.tradingview.com/chart/?symbol=LBRT) | Liberty Energy Inc. | LBRT |
+| 2 | 100 | $25.03 | [Chart](https://www.tradingview.com/chart/?symbol=CRTO) | Criteo S.A. | CRTO |
+| 2 | 100 | $43.54 | [Chart](https://www.tradingview.com/chart/?symbol=LINE) | Lineage, Inc. Common Stock | LINE |
+| 3 | 100 | $19.33 | [Chart](https://www.tradingview.com/chart/?symbol=BITI) | ProShares Short Bitcoin ETF | BITI |
+| 3 | 100 | $16.27 | [Chart](https://www.tradingview.com/chart/?symbol=SDS) | ProShares UltraShort S&P500 | SDS |
+| 3 | 100 | $39.49 | [Chart](https://www.tradingview.com/chart/?symbol=SDOW) | ProShares UltraPro Short Dow 30 | SDOW |
+| 5 | 100 | $80.22 | [Chart](https://www.tradingview.com/chart/?symbol=LNTH) | Lantheus Holdings, Inc | LNTH |
+| 6 | 100 | $33.38 | [Chart](https://www.tradingview.com/chart/?symbol=PSQ) | ProShares Short QQQ | PSQ |
+| 6 | 100 | $10.22 | [Chart](https://www.tradingview.com/chart/?symbol=LBTYK) | Liberty Global Ltd. Class C Common Shares | LBTYK |
+| 7 | 100 | $23.45 | [Chart](https://www.tradingview.com/chart/?symbol=DXD) | ProShares UltraShort Dow 30 | DXD |
 | 7 | 100 | $25.14 | [Chart](https://www.tradingview.com/chart/?symbol=ZSL) | ProShares UltraShort Silver | ZSL |
-| 7 | 100 | $103.13 | [Chart](https://www.tradingview.com/chart/?symbol=PDD) | PDD Holdings Inc. American Depositary Shares | PDD |
-| 8 | 100 | $35.56 | [Chart](https://www.tradingview.com/chart/?symbol=SARK) | Investment Managers Series Trust II Tradr 1X Short Innovation Daily ETF | SARK |
-| 9 | 100 | $39.23 | [Chart](https://www.tradingview.com/chart/?symbol=SH) | ProShares Short S&P500 | SH |
-| 14 | 99 | $85.06 | [Chart](https://www.tradingview.com/chart/?symbol=SIGI) | Selective Insurance Group | SIGI |
-| 4 | 98 | $82.37 | [Chart](https://www.tradingview.com/chart/?symbol=OKE) | Oneok, Inc. | OKE |
-| 8 | 98 | $13.17 | [Chart](https://www.tradingview.com/chart/?symbol=CCRN) | Cross Country Healthcare Inc | CCRN |
-| 10 | 96 | $54.20 | [Chart](https://www.tradingview.com/chart/?symbol=CNMD) | CONMED Corporation | CNMD |
-| 14 | 95 | $131.98 | [Chart](https://www.tradingview.com/chart/?symbol=KMB) | Kimberly-Clark Corp. | KMB |
-| 16 | 94 | $86.23 | [Chart](https://www.tradingview.com/chart/?symbol=BIDU) | Baidu, Inc. | BIDU |
-| 11 | 93 | $48.50 | [Chart](https://www.tradingview.com/chart/?symbol=SNY) | Sanofi American Depositary Shares (Each representing one-half of one ordinary share) | SNY |
-| 15 | 92 | $25.05 | [Chart](https://www.tradingview.com/chart/?symbol=DOG) | ProShares Short Dow30 | DOG |
-| 16 | 91 | $62.45 | [Chart](https://www.tradingview.com/chart/?symbol=ELS) | Equity Lifestyle Properties, Inc. | ELS |
-| 11 | 90 | $41.00 | [Chart](https://www.tradingview.com/chart/?symbol=UDR) | UDR, Inc. | UDR |
-| 13 | 90 | $31.04 | [Chart](https://www.tradingview.com/chart/?symbol=AXTA) | Axalta Coating Systems Ltd. | AXTA |
-| 19 | 90 | $777.99 | [Chart](https://www.tradingview.com/chart/?symbol=LLY) | Eli Lilly & Co. | LLY |
-| 23 | 89 | $28.76 | [Chart](https://www.tradingview.com/chart/?symbol=RNA) | Avidity Biosciences, Inc. Common Stock | RNA |
-| 18 | 87 | $19.19 | [Chart](https://www.tradingview.com/chart/?symbol=MSDL) | Morgan Stanley Direct Lending Fund | MSDL |
-| 22 | 84 | $304.76 | [Chart](https://www.tradingview.com/chart/?symbol=ACN) | Accenture PLC | ACN |
-| 18 | 83 | $35.32 | [Chart](https://www.tradingview.com/chart/?symbol=PECO) | Phillips Edison & Company, Inc. Common Stock | PECO |
-| 21 | 83 | $56.87 | [Chart](https://www.tradingview.com/chart/?symbol=DAY) | Dayforce, Inc. | DAY |
-| 22 | 82 | $295.22 | [Chart](https://www.tradingview.com/chart/?symbol=UTHR) | United Therapeutics Corp | UTHR |
-| 26 | 82 | $104.41 | [Chart](https://www.tradingview.com/chart/?symbol=DEO) | Diageo plc | DEO |
+| 9 | 100 | $35.56 | [Chart](https://www.tradingview.com/chart/?symbol=SARK) | Investment Managers Series Trust II Tradr 1X Short Innovation Daily ETF | SARK |
+| 13 | 100 | $14.04 | [Chart](https://www.tradingview.com/chart/?symbol=OCSL) | Oaktree Specialty Lending Corporation | OCSL |
+| 10 | 99 | $39.23 | [Chart](https://www.tradingview.com/chart/?symbol=SH) | ProShares Short S&P500 | SH |
+| 8 | 98 | $103.20 | [Chart](https://www.tradingview.com/chart/?symbol=PDD) | PDD Holdings Inc. American Depositary Shares | PDD |
+| 15 | 98 | $85.06 | [Chart](https://www.tradingview.com/chart/?symbol=SIGI) | Selective Insurance Group | SIGI |
+| 4 | 97 | $81.91 | [Chart](https://www.tradingview.com/chart/?symbol=OKE) | Oneok, Inc. | OKE |
+| 6 | 95 | $24.77 | [Chart](https://www.tradingview.com/chart/?symbol=DRV) | Direxion Daily Real Estate Bear 3X Shares | DRV |
+| 11 | 94 | $54.32 | [Chart](https://www.tradingview.com/chart/?symbol=CNMD) | CONMED Corporation | CNMD |
+| 15 | 94 | $132.15 | [Chart](https://www.tradingview.com/chart/?symbol=KMB) | Kimberly-Clark Corp. | KMB |
+| 17 | 93 | $86.13 | [Chart](https://www.tradingview.com/chart/?symbol=BIDU) | Baidu, Inc. | BIDU |
+| 11 | 92 | $48.46 | [Chart](https://www.tradingview.com/chart/?symbol=SNY) | Sanofi American Depositary Shares (Each representing one-half of one ordinary share) | SNY |
+| 16 | 92 | $25.08 | [Chart](https://www.tradingview.com/chart/?symbol=DOG) | ProShares Short Dow30 | DOG |
+| 11 | 90 | $40.93 | [Chart](https://www.tradingview.com/chart/?symbol=UDR) | UDR, Inc. | UDR |
+| 13 | 90 | $30.81 | [Chart](https://www.tradingview.com/chart/?symbol=AXTA) | Axalta Coating Systems Ltd. | AXTA |
+| 20 | 90 | $777.07 | [Chart](https://www.tradingview.com/chart/?symbol=LLY) | Eli Lilly & Co. | LLY |
+| 17 | 89 | $62.38 | [Chart](https://www.tradingview.com/chart/?symbol=ELS) | Equity Lifestyle Properties, Inc. | ELS |
+| 17 | 89 | $293.65 | [Chart](https://www.tradingview.com/chart/?symbol=UTHR) | United Therapeutics Corp | UTHR |
+| 24 | 87 | $28.89 | [Chart](https://www.tradingview.com/chart/?symbol=RNA) | Avidity Biosciences, Inc. Common Stock | RNA |
+| 27 | 87 | $18.49 | [Chart](https://www.tradingview.com/chart/?symbol=S) | SentinelOne, Inc. | S |
+| 19 | 86 | $19.16 | [Chart](https://www.tradingview.com/chart/?symbol=MSDL) | Morgan Stanley Direct Lending Fund | MSDL |
+| 23 | 83 | $305.10 | [Chart](https://www.tradingview.com/chart/?symbol=ACN) | Accenture PLC | ACN |
+| 19 | 82 | $35.32 | [Chart](https://www.tradingview.com/chart/?symbol=PECO) | Phillips Edison & Company, Inc. Common Stock | PECO |
+| 22 | 82 | $56.92 | [Chart](https://www.tradingview.com/chart/?symbol=DAY) | Dayforce, Inc. | DAY |
 | 29 | 80 | $196.09 | [Chart](https://www.tradingview.com/chart/?symbol=RGA) | Reinsurance Group of America, Incorporated | RGA |
+| 28 | 79 | $104.75 | [Chart](https://www.tradingview.com/chart/?symbol=DEO) | Diageo plc | DEO |
 | 29 | 76 | $126.96 | [Chart](https://www.tradingview.com/chart/?symbol=RGEN) | Repligen Corp | RGEN |
-| 29 | 75 | $21.71 | [Chart](https://www.tradingview.com/chart/?symbol=TUA) | Simplify Short Term Treasury Futures Strategy ETF | TUA |
-| 32 | 72 | $18.71 | [Chart](https://www.tradingview.com/chart/?symbol=DJT) | Trump Media & Technology Group Corp. Common Stock | DJT |
+| 33 | 75 | $22.83 | [Chart](https://www.tradingview.com/chart/?symbol=IBTG) | iShares iBonds Dec 2026 Term Treasury ETF | IBTG |
+| 30 | 74 | $21.72 | [Chart](https://www.tradingview.com/chart/?symbol=TUA) | Simplify Short Term Treasury Futures Strategy ETF | TUA |
+| 39 | 62 | $18.95 | [Chart](https://www.tradingview.com/chart/?symbol=DJT) | Trump Media & Technology Group Corp. Common Stock | DJT |
 
 ## **Methodology**
 
